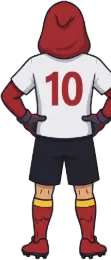
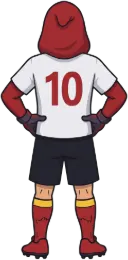
Play Penalty: off the bar says so; wizard stand uncropped
Owner: 'when the ball hits the bar, dont say saved - missed, or hit the post'.
A shot off the bar pops OFF THE BAR! and lights the boards with it; an over
pops OVER! with MISSED on the boards. The wizard kicker's stand was cut too
tight and lost his hands; recut with room for both elbows.

diff --git a/public/penalty.html b/public/penalty.html
@@ -658,8 +658,9 @@ function playKick(k){
       fx.pop("SAVED!","#E63946");fx.board("SAVED","#E63946");if(you)streak=0;fx.combo(streak);
     }else if(what==="bar"){
       hitStop=0.08;fx.shake(2);fx.buzz([30,30,30]);fx.sprite("burst",bp.x,bp.y,56,320);
-      fx.pop("WAHALA!","#E63946");if(you)streak=0;fx.combo(streak);
-    }else{fx.pop("WAHALA!","#E63946");fx.shake(0);if(you)streak=0;fx.combo(streak);}
+      /* it hit the woodwork - say exactly that, never "saved" (owner, 8 Oct 2026) */
+      fx.pop("OFF THE BAR!","#E63946");fx.board("OFF THE BAR","#E63946");if(you)streak=0;fx.combo(streak);
+    }else{fx.pop("OVER!","#E63946");fx.board("MISSED","#E63946");fx.shake(0);if(you)streak=0;fx.combo(streak);}
   }
 }
 

diff --git a/test/penalty-html.test.js b/test/penalty-html.test.js
@@ -400,3 +400,12 @@ test("nothing calls the retired dot strip", () => {
   assert.doesNotMatch(html, /\bdots\(/);
   assert.doesNotMatch(html, /\.dots\{/);
 });
+
+/* Owner, 8 Oct 2026: "when the ball hits the bar, dont say saved - missed, or hit the post". */
+test("a shot off the bar says so, an over says missed, and neither says saved", () => {
+  const f = grabFn("playKick");
+  const bar = f.slice(f.indexOf('what==="bar"'), f.indexOf("}else{", f.indexOf('what==="bar"')));
+  assert.match(bar, /fx\.pop\("OFF THE BAR!"/); assert.match(bar, /fx\.board\("OFF THE BAR"/);
+  assert.doesNotMatch(bar, /SAVED/);
+  assert.match(f, /fx\.pop\("OVER!"[^;]*\);fx\.board\("MISSED"/);
+});
